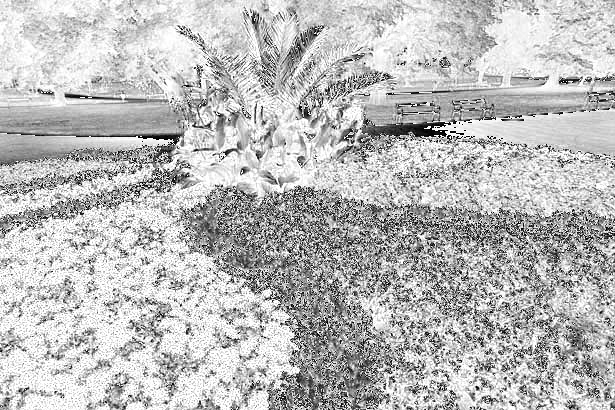
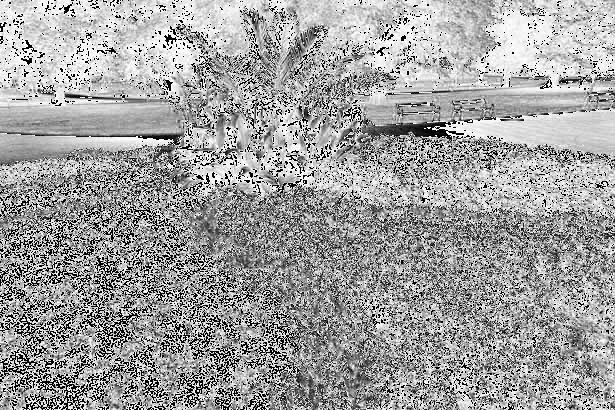
Does not work, some math stuff is now added

diff --git a/test of git.py b/test of git.py
@@ -58,7 +58,7 @@ def calculateS():
             B = pixel[0]
             G = pixel[1]
             R = pixel[2]
-            sValue = 255-(3*min(R, G, B))
+            sValue = 1-(3*min(R, G, B))
             outputForSValue[i, j, 0] = sValue
             outputForSValue[i, j, 1] = sValue
             outputForSValue[i, j, 2] = sValue
@@ -84,3 +84,6 @@ calculateI()
 cv2.imwrite('outputHValue.jpg', outputForHValue)
 cv2.imwrite('outputSValue.jpg', outputForSValue)
 cv2.imwrite('outputIValue.jpg', outputForIValue)
+
+#Try to implement this math http://www.niwa.nu/2013/05/math-behind-colorspace-conversions-rgb-hsl/
+#If you can't ask No/Simon
